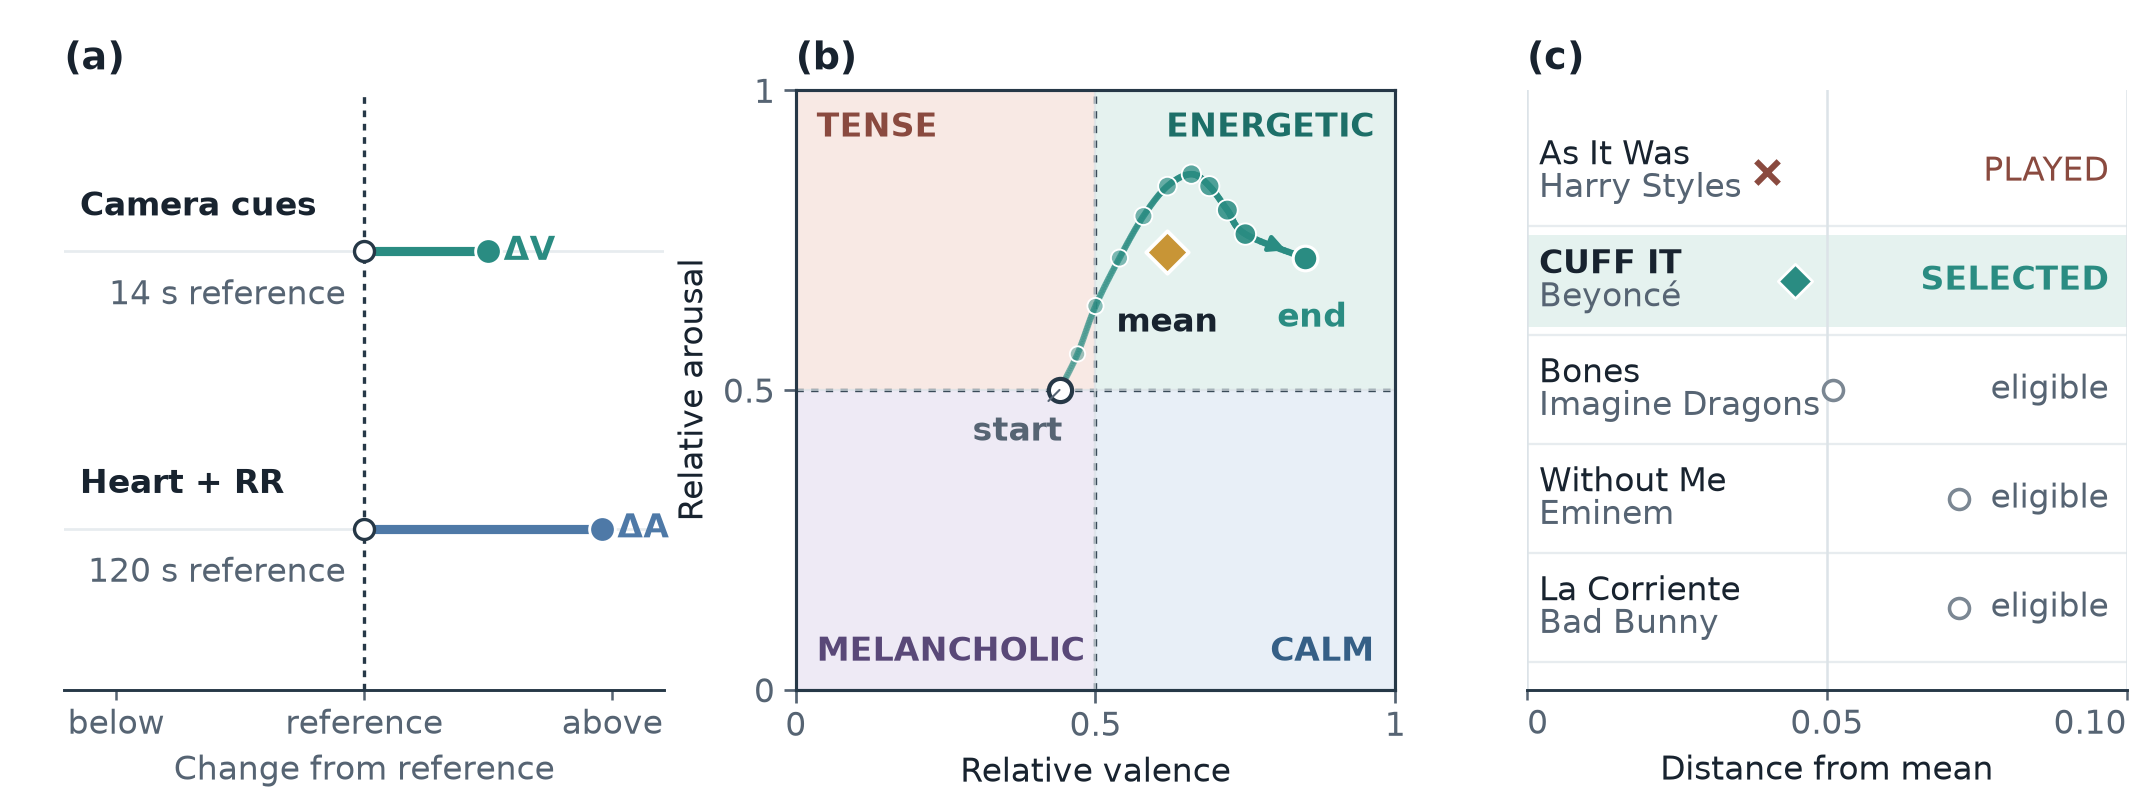
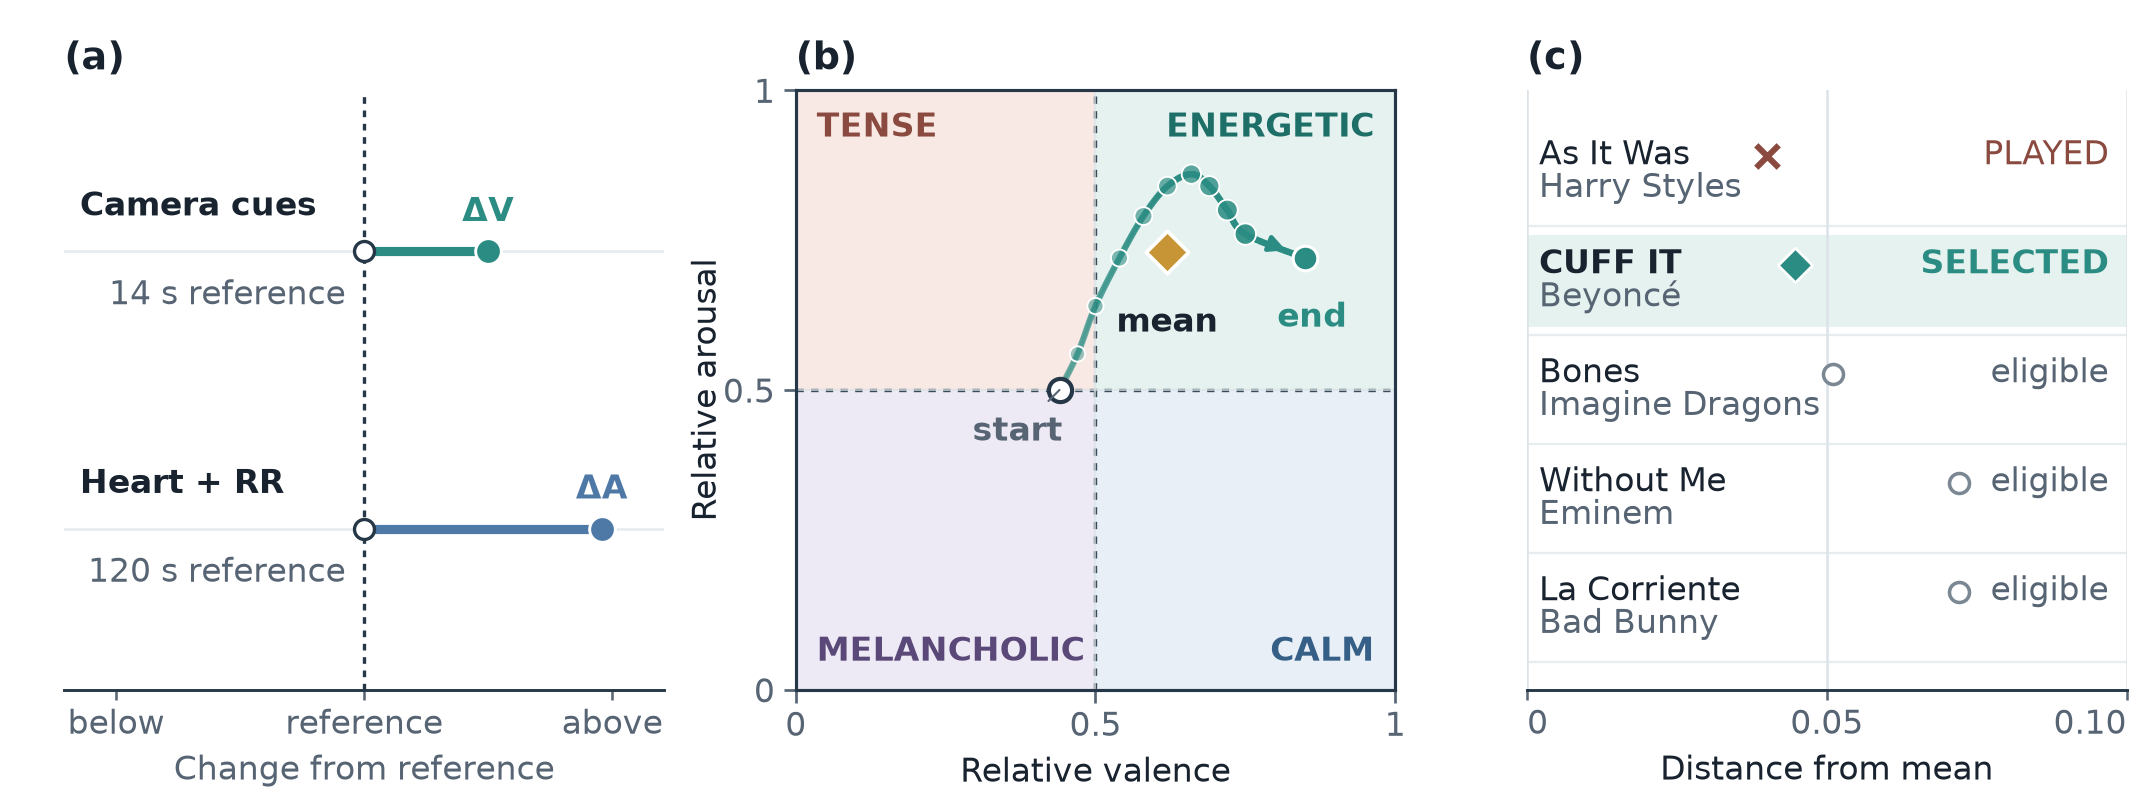
Eliminate Figure 2 label collisions

diff --git a/paper/figures/fig2_relative_trajectory.py b/paper/figures/fig2_relative_trajectory.py
@@ -228,11 +228,11 @@ def draw_relative_inputs(axis: plt.Axes, target: tuple[float, float]) -> None:
             color=MUTED,
         )
         axis.text(
-            delta + 0.015,
-            y_value,
+            delta,
+            y_value + 0.08,
             str(row["symbol"]),
-            ha="left",
-            va="center",
+            ha="center",
+            va="bottom",
             fontsize=AXIS_LABEL_SIZE,
             fontweight="bold",
             color=color,
@@ -259,6 +259,7 @@ def draw_trajectory(
     axis.yaxis.label.set_size(AXIS_LABEL_SIZE)
     axis.xaxis.labelpad = 3
     axis.yaxis.labelpad = 3
+    axis.yaxis.set_label_coords(-0.12, 0.5)
 
     quadrant_labels = {
         "tense": (0.035, 0.965, "left", "top"),
@@ -462,9 +463,10 @@ def draw_candidate_ranking(
         title = str(track["title"])
         is_played = title in played_titles
         is_selected = title == chosen_title
+        marker_y = y_value + 0.15
         axis.text(
             0.002,
-            y_value + 0.15,
+            marker_y,
             title,
             ha="left",
             va="center",
@@ -487,7 +489,7 @@ def draw_candidate_ranking(
         if is_played:
             axis.scatter(
                 [distance],
-                [y_value],
+                [marker_y],
                 s=29,
                 marker="x",
                 color=PLAYED,
@@ -499,7 +501,7 @@ def draw_candidate_ranking(
         elif is_selected:
             axis.scatter(
                 [distance],
-                [y_value],
+                [marker_y],
                 s=34,
                 marker="D",
                 facecolor=CAMERA,
@@ -512,7 +514,7 @@ def draw_candidate_ranking(
         else:
             axis.scatter(
                 [distance],
-                [y_value],
+                [marker_y],
                 s=23,
                 facecolor="white",
                 edgecolor=ALTERNATIVE,
@@ -524,7 +526,7 @@ def draw_candidate_ranking(
 
         axis.text(
             0.097,
-            y_value,
+            marker_y,
             status,
             ha="right",
             va="center",
